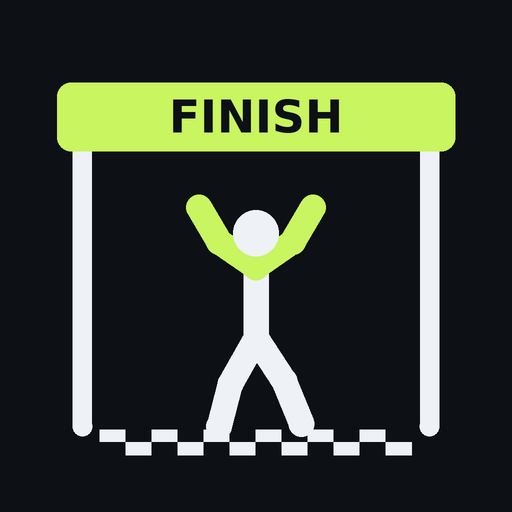
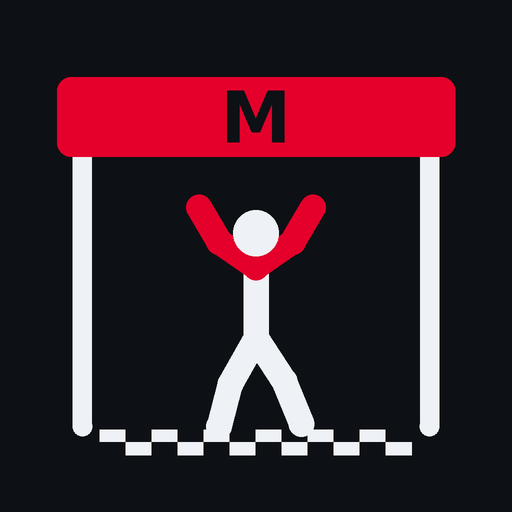
Ironmax v1.2 : DA rouge, arche M, barrières et public dans l'intro
Claude-Session: https://claude.ai/code/session_01WYPRJ5aQYn8J7em4KLFiRG

Changed region(s): [[0.0938, 0.125, 0.9062, 0.3125], [0.3438, 0.375, 0.6562, 0.5625]]

diff --git a/index.html b/index.html
@@ -14,7 +14,7 @@
 <style>
 :root{
   --bg:#0D1014;--card:#161A20;--card2:#1E232B;--line:#2A303A;--txt:#EEF1F5;--mut:#8A93A1;
-  --acc:#C8F560;--accd:#7E9C3A;--far:#4A5260;--pain:#FF6B5B;
+  --acc:#E4002B;--accd:#8A1A24;--far:#4A5260;--pain:#FFB020;--onacc:#FFFFFF;
   --r:20px;--disp:ui-rounded,"SF Pro Rounded",system-ui,-apple-system,sans-serif;
   --sat:env(safe-area-inset-top);--sab:env(safe-area-inset-bottom);
 }
@@ -38,15 +38,15 @@ h2{font-family:var(--disp);font-weight:800;font-size:22px;margin:22px 0 10px}
 .seg{display:flex;background:var(--card);border-radius:14px;padding:4px;gap:4px;margin-top:10px}
 .seg button{flex:1;padding:9px 6px;border-radius:10px;font-weight:600;font-size:13px;color:var(--mut)}
 .seg button.on{background:var(--card2);color:var(--txt);box-shadow:inset 0 0 0 1px var(--line)}
-.seg button.on.acc{background:var(--acc);color:#111;box-shadow:none}
+.seg button.on.acc{background:var(--acc);color:var(--onacc);box-shadow:none}
 .card{background:var(--card);border-radius:var(--r);padding:18px;margin-top:12px}
 .card h3{font-family:var(--disp);font-weight:800;font-size:21px;margin:0 0 4px}
 .muted{color:var(--mut)}
 .tags{display:flex;flex-wrap:wrap;gap:6px;margin-top:10px}
 .tag{font-size:12px;padding:4px 10px;border-radius:99px;background:var(--card2);color:var(--mut)}
-.tag.pain{color:var(--pain);background:rgba(255,107,91,.1)}
-.go{display:flex;align-items:center;justify-content:center;gap:10px;width:100%;margin-top:16px;padding:15px;border-radius:16px;background:var(--acc);color:#111;font-family:var(--disp);font-weight:800;font-size:17px}
-.go.done{background:var(--txt)}
+.tag.pain{color:var(--pain);background:rgba(255,176,32,.12)}
+.go{display:flex;align-items:center;justify-content:center;gap:10px;width:100%;margin-top:16px;padding:15px;border-radius:16px;background:var(--acc);color:var(--onacc);font-family:var(--disp);font-weight:800;font-size:17px}
+.go.done{background:var(--txt);color:#111}
 .go svg{width:18px;height:18px;fill:currentColor}
 .grid{display:grid;grid-template-columns:1fr 1fr;gap:10px;margin-top:14px}
 .ex{background:var(--card2);border-radius:18px;padding:12px;text-align:left;position:relative;display:flex;flex-direction:column}
@@ -78,7 +78,7 @@ nav.tabs button.on{color:var(--acc)}
 .body text{fill:var(--mut);font-size:13px;text-anchor:middle;font-family:-apple-system,system-ui}
 .chips{display:flex;flex-wrap:wrap;gap:7px;margin-top:12px}
 .chip{padding:8px 12px;border-radius:99px;background:var(--card2);font-size:13px;font-weight:600;color:var(--mut)}
-.chip.sel{background:var(--acc);color:#111}
+.chip.sel{background:var(--acc);color:var(--onacc)}
 .chip.pain{background:var(--pain);color:#111}
 .hint{font-size:13px;color:var(--mut);margin-top:8px}
 .row{display:flex;gap:10px}
@@ -87,7 +87,7 @@ nav.tabs button.on{color:var(--acc)}
 .stat span{font-size:12px;color:var(--mut)}
 .heat{display:grid;grid-template-columns:repeat(7,1fr);gap:6px;margin-top:10px}
 .heat div{aspect-ratio:1;border-radius:7px;background:var(--card2)}
-.heat div.l1{background:#56702A}.heat div.l2{background:var(--acc)}
+.heat div.l1{background:#6E1820}.heat div.l2{background:var(--acc)}
 .heat div.today{box-shadow:inset 0 0 0 2px var(--txt)}
 .heat .dn{background:none;font-size:11px;color:var(--mut);text-align:center;aspect-ratio:auto}
 .hist{display:flex;align-items:center;gap:12px;padding:12px 0;border-bottom:1px solid var(--line)}
@@ -103,7 +103,7 @@ nav.tabs button.on{color:var(--acc)}
 .set:last-child{border:0}
 .tg{width:50px;height:30px;border-radius:99px;background:var(--line);position:relative;transition:.2s}
 .tg::after{content:"";position:absolute;top:3px;left:3px;width:24px;height:24px;border-radius:99px;background:var(--txt);transition:.2s}
-.tg.on{background:var(--acc)}.tg.on::after{left:23px;background:#111}
+.tg.on{background:var(--acc)}.tg.on::after{left:23px;background:#fff}
 textarea{width:100%;min-height:90px;background:var(--card2);color:var(--txt);border:1px solid var(--line);border-radius:12px;padding:10px;font:12px ui-monospace,monospace;margin-top:10px}
 .toast{position:fixed;left:50%;bottom:calc(var(--sab) + 92px);transform:translateX(-50%) translateY(20px);opacity:0;background:var(--txt);color:#111;padding:10px 16px;border-radius:99px;font-weight:600;font-size:14px;transition:.25s;z-index:60;pointer-events:none}
 .toast.show{opacity:1;transform:translateX(-50%)}
@@ -135,7 +135,7 @@ textarea{width:100%;min-height:90px;background:var(--card2);color:var(--txt);bor
 .ring .n{position:absolute;inset:0;display:flex;align-items:center;justify-content:center;font-family:var(--disp);font-weight:800;font-size:46px;font-variant-numeric:tabular-nums}
 .pctl{display:flex;justify-content:center;align-items:center;gap:26px;margin-top:14px}
 .pctl button{width:56px;height:56px;border-radius:99px;background:var(--card);display:flex;align-items:center;justify-content:center}
-.pctl button.main{width:76px;height:76px;background:var(--acc);color:#111}
+.pctl button.main{width:76px;height:76px;background:var(--acc);color:var(--onacc)}
 .pctl svg{width:24px;height:24px;fill:currentColor}
 .prep .pname{color:var(--mut)}
 .end{text-align:center}
@@ -479,7 +479,7 @@ function vReglages(){
   <div class="row" style="margin-top:12px"><button class="btn" data-act="export">Copier mes données</button><button class="btn" data-act="showimport">Importer</button></div>
   <div id="imp" style="display:none"><textarea id="impt" placeholder="Colle ici une sauvegarde…"></textarea><button class="btn" style="margin-top:8px" data-act="import">Valider l'import</button></div></div>
   <h2>Installer sur l'iPhone</h2><div class="card muted" style="font-size:14px">Dans Safari : bouton Partager → « Sur l'écran d'accueil ». L'appli s'ouvre alors en plein écran comme une vraie app.</div>
-  <div class="muted" style="font-size:12px;text-align:center;margin-top:20px">Ironmax v1.1 · ${EX.length} exercices</div>`;
+  <div class="muted" style="font-size:12px;text-align:center;margin-top:20px">Ironmax v1.2 · ${EX.length} exercices</div>`;
 }
 
 /* ============ SHEET ============ */
@@ -619,14 +619,18 @@ function runIntro(){
   const el=document.createElement("div");el.className="intro";
   const GY=180,K=1.45;
   let fl="";for(let r=0;r<2;r++)for(let c=0;c<4;c++)fl+=`<rect x="${294+c*5}" y="${GY+r*5}" width="5" height="5" fill="${(r+c)%2?"#0D1014":"#EEF1F5"}"/>`;
+  const BX=[4,46,88,130,206,366];let bar="";
+  BX.forEach(x=>{bar+=`<line x1="${x+4}" y1="${GY-2}" x2="${x+4}" y2="${GY+10}" stroke="#3A414C" stroke-width="2"/><line x1="${x+32}" y1="${GY-2}" x2="${x+32}" y2="${GY+10}" stroke="#3A414C" stroke-width="2"/><rect x="${x}" y="${GY-22}" width="36" height="22" rx="2" fill="var(--acc)"/><text x="${x+18}" y="${GY-4.5}" text-anchor="middle" font-family="Arial Black,Helvetica Neue,system-ui" font-weight="900" font-size="17" fill="#0D1014">M</text>`});
+  const PPL=[];for(let x=10;x<400;x+=15){if(x>232&&x<370&&!(x>356))continue;PPL.push({x:x+(Math.random()*6-3),h:GY-40-Math.random()*8,c:["#5A6372","#4A5260","#6B7483","#3E4550"][Math.floor(Math.random()*4)],ph:Math.random()*6,sp:6+Math.random()*5,up:Math.random()<.6})}
   el.innerHTML=`<button class="skip">Passer</button>
   <svg viewBox="0 0 400 230">
     <line x1="0" y1="${GY+10}" x2="400" y2="${GY+10}" stroke="var(--line)" stroke-width="2" stroke-dasharray="4 6"/>
+    <g id="crowd"></g>${bar}
     ${fl}
     <line x1="250" y1="${GY+10}" x2="250" y2="60" stroke="var(--txt)" stroke-width="5" stroke-linecap="round"/>
     <line x1="356" y1="${GY+10}" x2="356" y2="60" stroke="var(--txt)" stroke-width="5" stroke-linecap="round"/>
     <rect x="240" y="40" width="126" height="26" rx="6" fill="var(--acc)"/>
-    <text x="303" y="58.5" text-anchor="middle" font-family="ui-rounded,system-ui" font-weight="800" font-size="17" fill="#0D1014" letter-spacing="2">FINISH</text>
+    <text x="303" y="63" text-anchor="middle" font-family="Arial Black,Helvetica Neue,system-ui" font-weight="900" font-size="25" fill="#0D1014">M</text>
     <line x1="196" y1="${GY+10}" x2="196" y2="70" stroke="var(--far)" stroke-width="4" stroke-linecap="round"/>
     <line x1="196" y1="72" x2="180" y2="72" stroke="var(--far)" stroke-width="4" stroke-linecap="round"/>
     <g id="bell"><line x1="180" y1="72" x2="180" y2="78" stroke="var(--far)" stroke-width="2"/><path d="M171 92Q171 78 180 78Q189 78 189 92L192 95H168Z" fill="#E9B949"/><circle cx="180" cy="97" r="2.5" fill="#E9B949"/></g>
@@ -635,12 +639,12 @@ function runIntro(){
   </svg>
   <div class="ttl">Iron<i>max</i></div>`;
   document.body.appendChild(el);
-  const man=el.querySelector("#man"),bell=el.querySelector("#bell"),ding=el.querySelector("#ding"),conf=el.querySelector("#conf"),ttl=el.querySelector(".ttl");
+  const crowd=el.querySelector("#crowd"),man=el.querySelector("#man"),bell=el.querySelector("#bell"),ding=el.querySelector("#ding"),conf=el.querySelector("#conf"),ttl=el.querySelector(".ttl");
   const place=(X,q,bob)=>{man.setAttribute("transform",`translate(${(X-60*K).toFixed(1)},${(GY+10-88*K+(bob||0)).toFixed(1)}) scale(${K})`);man.innerHTML=figInner(q,[],1)};
   const runPose=t=>{const u=(t/.32)%2;const i=Math.floor(u);let f=u-i;return i===0?lerp(runA,runB,f):lerp(runB,runA,f)};
   const ease=t=>t<.5?2*t*t:1-Math.pow(-2*t+2,2)/2;
   let parts=[],t0=null,done=false,dinged=false,boomed=false,raf;
-  const cols=["#C8F560","#EEF1F5","#FF6B5B","#6EC8FF","#E9B949"];
+  const cols=["#E4002B","#EEF1F5","#E4002B","#6EC8FF","#E9B949","#1A1A1A"];
   function boom(){for(let i=0;i<90;i++){const a=-Math.PI/2+(Math.random()-.5)*2.4,v=90+Math.random()*170;parts.push({x:303,y:70,vx:Math.cos(a)*v,vy:Math.sin(a)*v,r:Math.random()*360,vr:(Math.random()-.5)*720,c:cols[i%cols.length],w:3+Math.random()*4,h:2+Math.random()*3})}}
   function close(){if(done)return;done=true;cancelAnimationFrame(raf);el.classList.add("out");setTimeout(()=>el.remove(),550)}
   let last=null;
@@ -652,6 +656,8 @@ function runIntro(){
       else{bell.removeAttribute("transform");ding.setAttribute("opacity","0")}}
     else if(t<3.5){const u=(t-2.5)/1;const X=157+(330-157)*u;place(X,runPose(t),-Math.abs(Math.sin(t*Math.PI/.32))*3);if(X>303&&!boomed){boomed=true;boom()}}
     else{const u=Math.min(1,(t-3.5)/.3);place(330,lerp(stand,vic,u));ttl.classList.add("show")}
+    crowd.innerHTML=PPL.map(p=>{const sh=p.h+9,a=Math.sin(t*p.sp+p.ph),b=Math.sin(t*p.sp+p.ph+1.2);const L=p.up?[[p.x-7-a*2,sh-11+a*3],[p.x+7+b*2,sh-11+b*3]]:[[p.x-8,sh+4+a*3],[p.x+8,sh-10-Math.abs(b)*4]];
+      return `<g stroke="${p.c}" stroke-width="3" stroke-linecap="round"><line x1="${p.x}" y1="${sh}" x2="${p.x}" y2="${GY-6}"/><line x1="${p.x}" y1="${sh+1}" x2="${L[0][0].toFixed(1)}" y2="${L[0][1].toFixed(1)}"/><line x1="${p.x}" y1="${sh+1}" x2="${L[1][0].toFixed(1)}" y2="${L[1][1].toFixed(1)}"/></g><circle cx="${p.x}" cy="${p.h}" r="5" fill="${p.c}"/>`}).join("");
     if(parts.length){parts.forEach(p=>{p.vy+=260*dt;p.vx*=.99;p.x+=p.vx*dt;p.y+=p.vy*dt;p.r+=p.vr*dt});
       conf.innerHTML=parts.filter(p=>p.y<240).map(p=>`<rect x="${(p.x-p.w/2).toFixed(1)}" y="${(p.y-p.h/2).toFixed(1)}" width="${p.w.toFixed(1)}" height="${p.h.toFixed(1)}" fill="${p.c}" transform="rotate(${p.r.toFixed(0)} ${p.x.toFixed(1)} ${p.y.toFixed(1)})"/>`).join("")}
     if(t>5.6){close();return}

diff --git a/sw.js b/sw.js
@@ -1,5 +1,5 @@
 // Ironmax service worker: network-first (always fresh when online), cache fallback offline.
-const C="ironmax-v2";
+const C="ironmax-v3";
 const FILES=["./","index.html","icon.png","manifest.webmanifest"];
 self.addEventListener("install",e=>{e.waitUntil(caches.open(C).then(c=>c.addAll(FILES)));self.skipWaiting()});
 self.addEventListener("activate",e=>{e.waitUntil(caches.keys().then(k=>Promise.all(k.filter(x=>x!==C).map(x=>caches.delete(x)))));self.clients.claim()});
